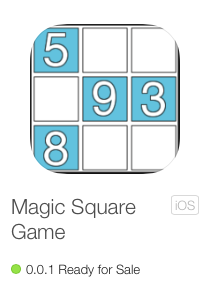
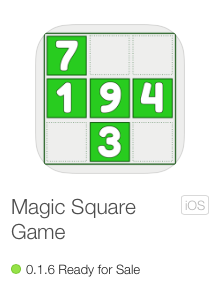
#48-content-update - The content now reflects that the new version of Magic Squares has been released.

Changed region(s): [[0.1395, 0.06, 0.8651, 0.6], [0.7814, 0.63, 0.9767, 0.72], [0.1674, 0.87, 0.2512, 0.93]]

diff --git a/app/index.html b/app/index.html
@@ -214,7 +214,7 @@
             <p class="lead"><a href="https://itunes.apple.com/WebObjects/MZStore.woa/wa/viewSoftware?id=966245243&mt=8"><img src="images/magic-square-game.png?raw=true"></a>
             </p>
 
-            <p><small>(I'm waiting for version <em>0.1.6</em> to be approved, with the pictured features.)</small></p>
+            <p><small>Version <em>0.1.6</em> to now ready for sale!</small></p>
 
             <p class="lead">The iOS app is a <em>hybrid app</em> using the <a href="http://ionicframework.com" target="_self">Ionic Framework</a>, the source code is hosted on Github. For more information see: <a href="https://github.com/russellf9/magic-squares-mobile">Magic Squares Mobile</a>.
             </p>
@@ -257,7 +257,7 @@
     <footer id="date" ng-controller="DateController" ng-cloak>
         <div class="not-vertical-align">
 
-            <p>Version: 0.0.6</p>
+            <p>Version:  0.0.8</p>
 
             <p>&copy; 2015 Factornine Limited &middot; Site last updated: {{date}} <span class="pull-right"><a href="#">Back to top</a></span></p>
 
